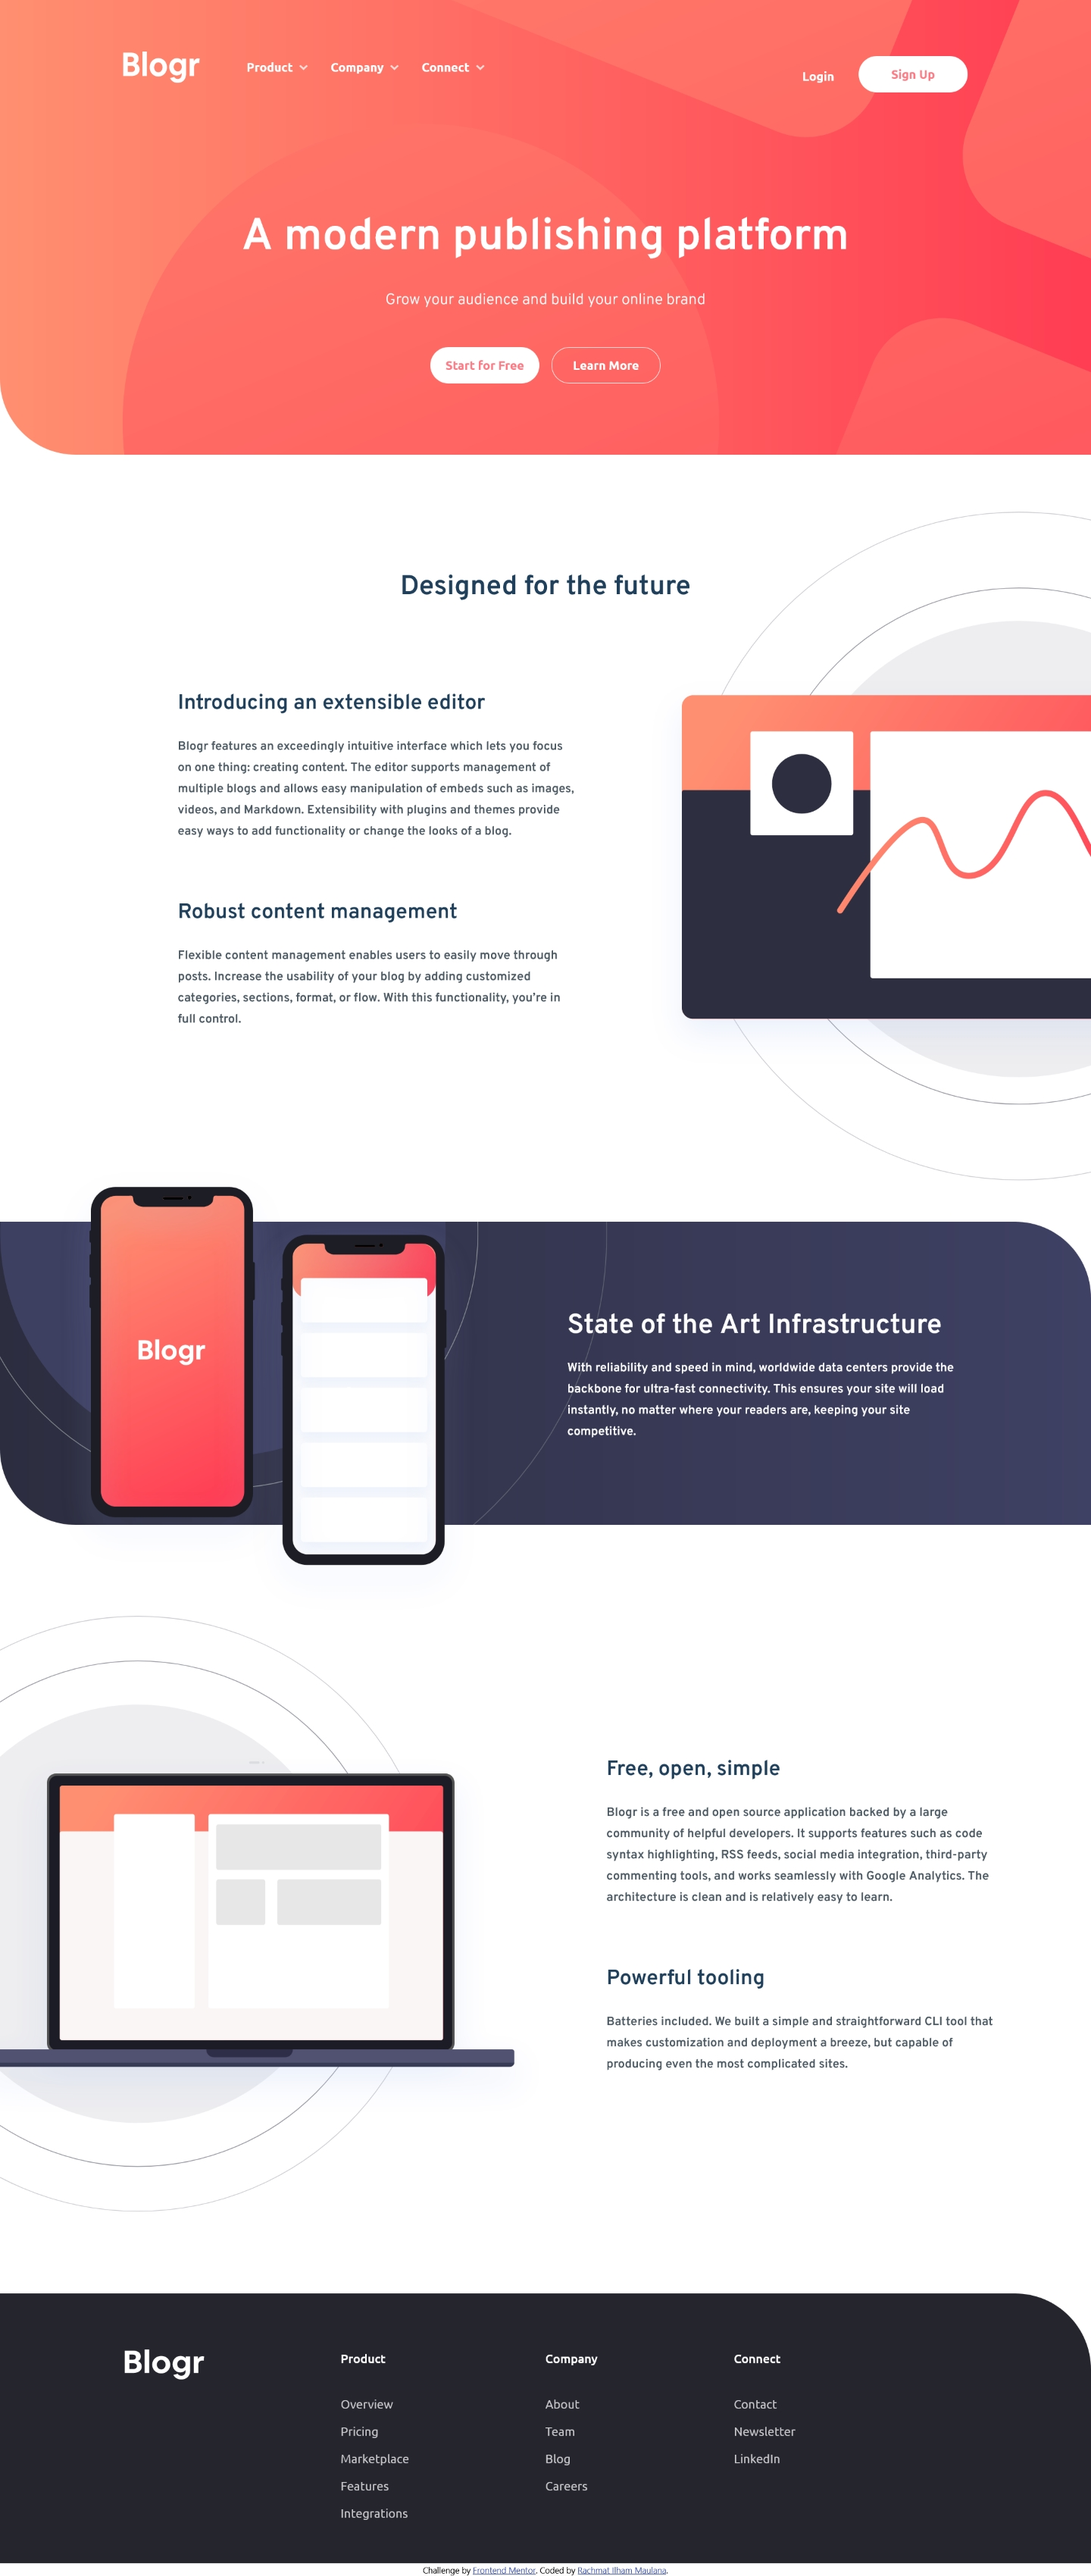
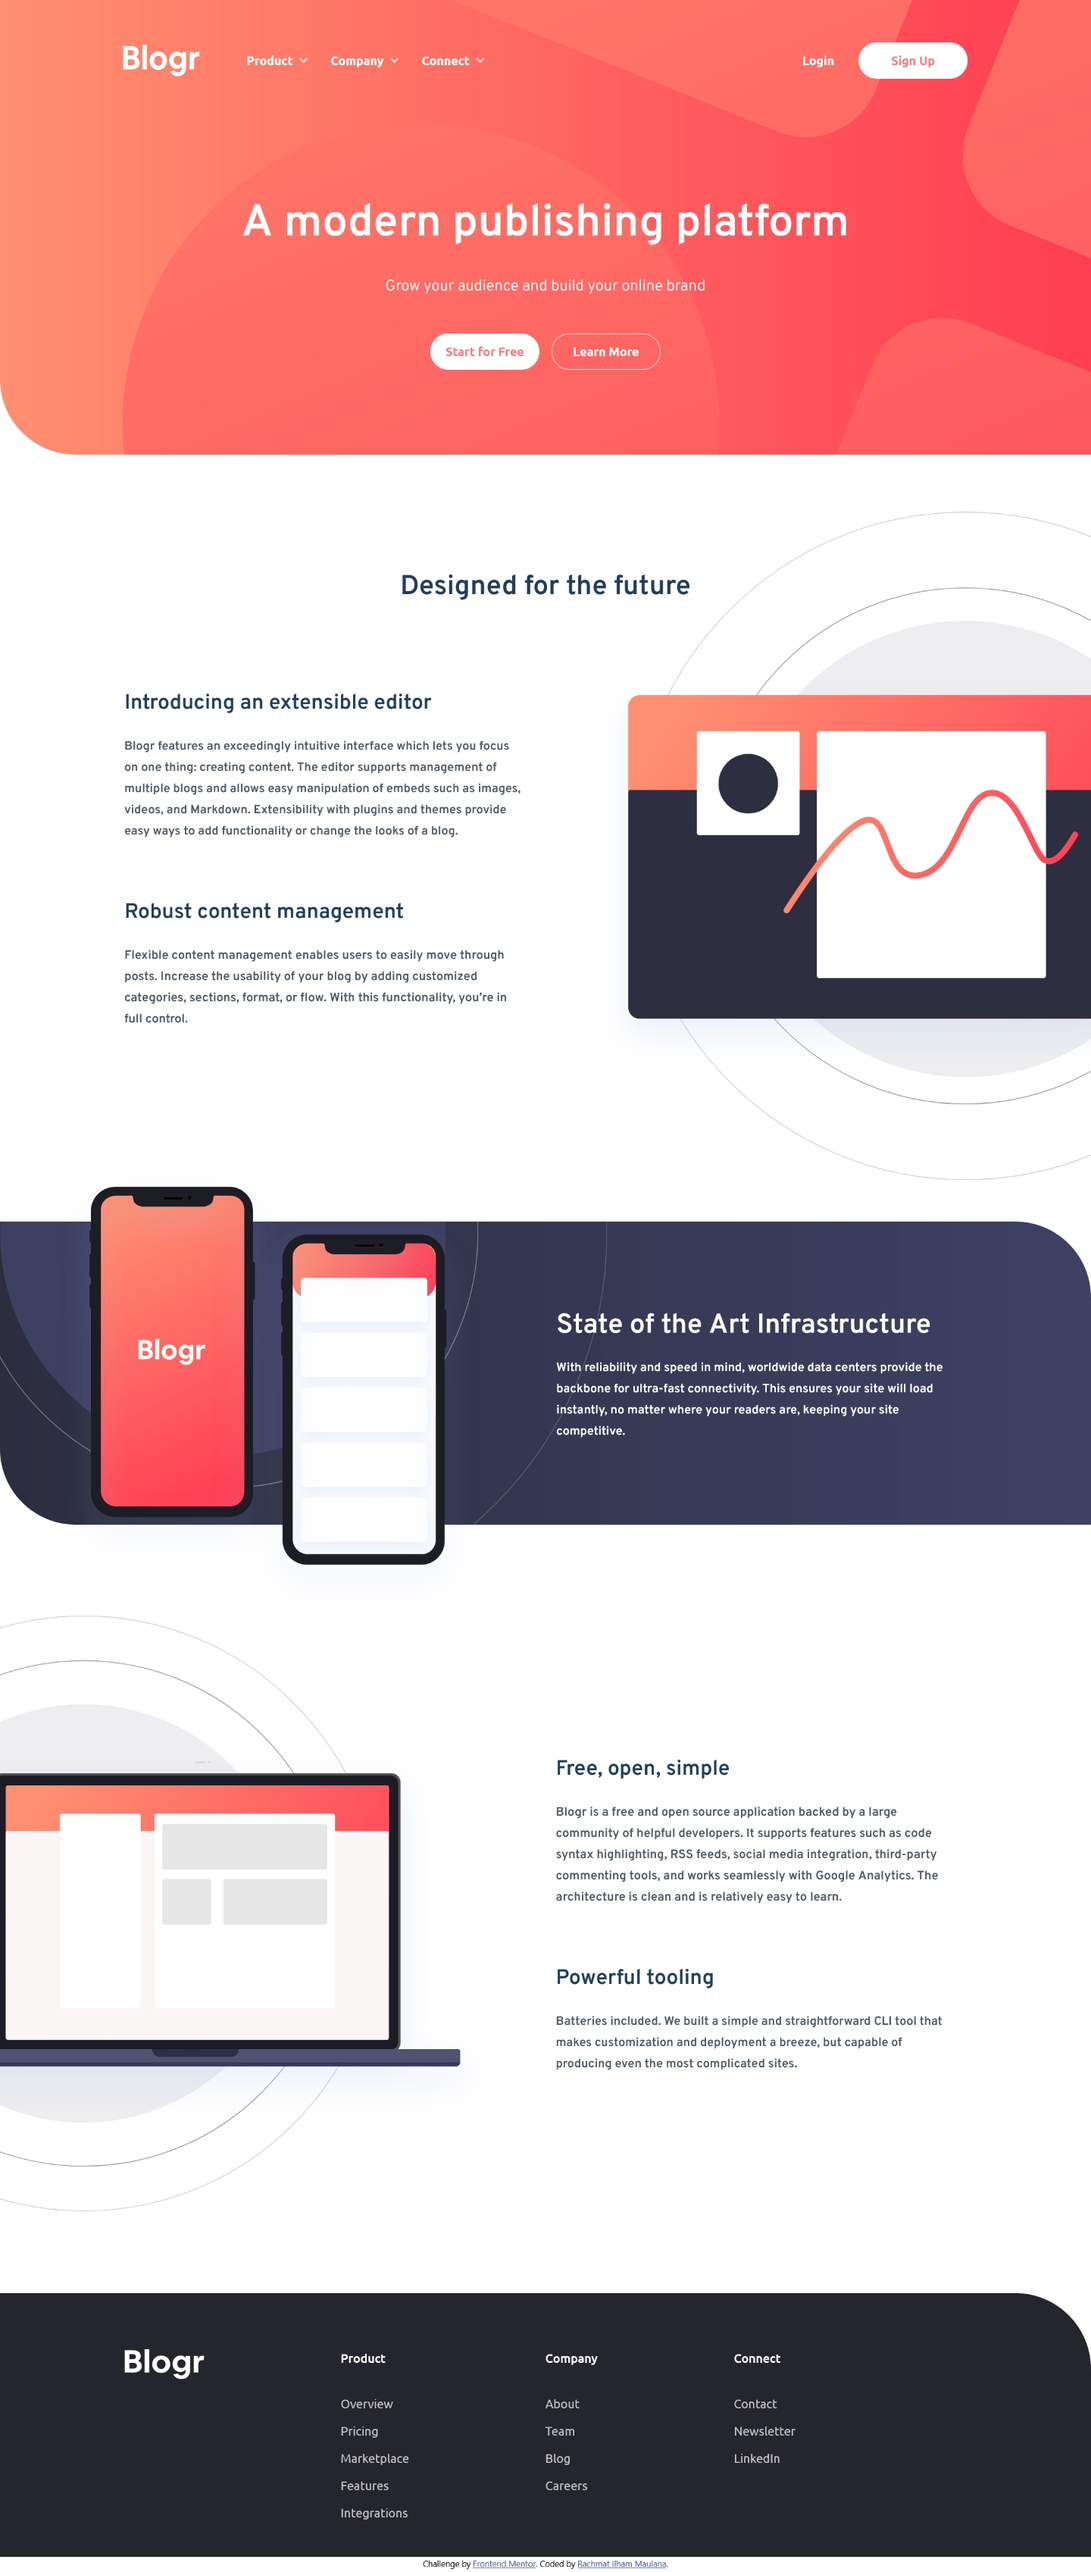
improve layout and page screenshot

diff --git a/src/sections/Article.jsx b/src/sections/Article.jsx
@@ -13,9 +13,9 @@ export default function Article() {
               : "./images/illustration-editor-mobile.svg"
           }
           alt="Editor Illustration"
-          className="mx-auto md:min-w-[925px] md:min-h-[882px] md:absolute md:-top-[197px] md:left-[59.7%]"
+          className="mx-auto md:min-w-[925px] md:min-h-[882px] md:absolute md:-top-[197px] md:left-[54.8%]"
         />
-        <div className="ml-8 mr-7 mt-2 md:m-0 md:ml-[16.3%] md:w-[36.5%]">
+        <div className="ml-8 mr-7 mt-2 md:m-0 md:ml-[11.4%] md:w-[36.5%]">
           <h3 className="article-h3 mt-10">Introducing an extensible editor</h3>
           <p className="article-p">
             Blogr features an exceedingly intuitive interface which lets you
@@ -42,9 +42,9 @@ export default function Article() {
         <img
           src="./images/illustration-phones.svg"
           alt="Phone Illustration"
-          className="max-h-[432px] md:max-h-a md:max-w-[50%] absolute -top-[180px] left-1/2 -translate-x-1/2 mx-auto md:-top-[66px] md:left-[8.75%] md:-translate-x-[8.75%]"
+          className="max-h-[432px] md:max-h-max md:max-w-[50%] absolute -top-[180px] left-1/2 -translate-x-1/2 mx-auto md:-top-[66px] md:left-[8.75%] md:-translate-x-[8.75%]"
         />
-        <div className="mx-8 md:mx-0 md:w-[36%] md:relative md:right-[12%]">
+        <div className="mx-8 md:mx-0 md:w-[36%] md:relative md:right-[13%]">
           <h2 className="text-4xl leading-[3.2rem] font-semibold">
             State of the Art Infrastructure
           </h2>
@@ -65,10 +65,10 @@ export default function Article() {
               : "./images/illustration-laptop-mobile.svg"
           }
           alt="Laptop Illustration"
-          className="mx-auto md:min-w-[974px] md:min-h-[786px] md:absolute md:top-14 md:right-[46.3%]"
+          className="mx-auto md:min-w-[974px] md:min-h-[786px] md:absolute md:top-14 md:right-[52.7%]"
         />
 
-        <div className="ml-8 mr-7 mt-2 md:mx-0 md:mt-[17.5%] md:w-[47%] md:relative md:left-[4%]">
+        <div className="ml-8 mr-7 mt-2 md:mx-0 md:mt-[17.5%] md:w-[47%] md:relative md:-left-[2%]">
           <h3 className="article-h3 mt-12">Free, open, simple</h3>
           <p className="article-p text-[1.01rem]">
             Blogr is a free and open source application backed by a large

diff --git a/src/sections/Footer.jsx b/src/sections/Footer.jsx
@@ -3,7 +3,7 @@ import FooterComp from "../components/FooterComp";
 
 export default function Footer() {
   return (
-    <footer className="bg-bgFooter text-white rounded-tr-[100px] mt-24 md:mt-0 pt-[74px] pb-[72px] md:pb-12">
+    <footer className="bg-bgFooter text-white rounded-tr-[100px] mt-24 md:mt-0 pt-[74px] pb-[72px] md:pb-10">
       <div className="footer-container md:flex md:w-[77.1%] md:mx-auto">
         <img
           src="./images/logo.svg"

diff --git a/README.md b/README.md
@@ -29,7 +29,7 @@ Users should be able to:
 
 ### Links
 
-- Solution URL: [Solution page on Frontend Mentor](https://www.frontendmentor.io/)
+- Solution URL: [Solution page on Frontend Mentor](https://www.frontendmentor.io/solutions/blogr-landing-page-Kic2OJ-jtb)
 - Live Site URL: [Github Pages](https://rachmatilham.github.io/blogr-landing-page-main/)
 
 ## My process
